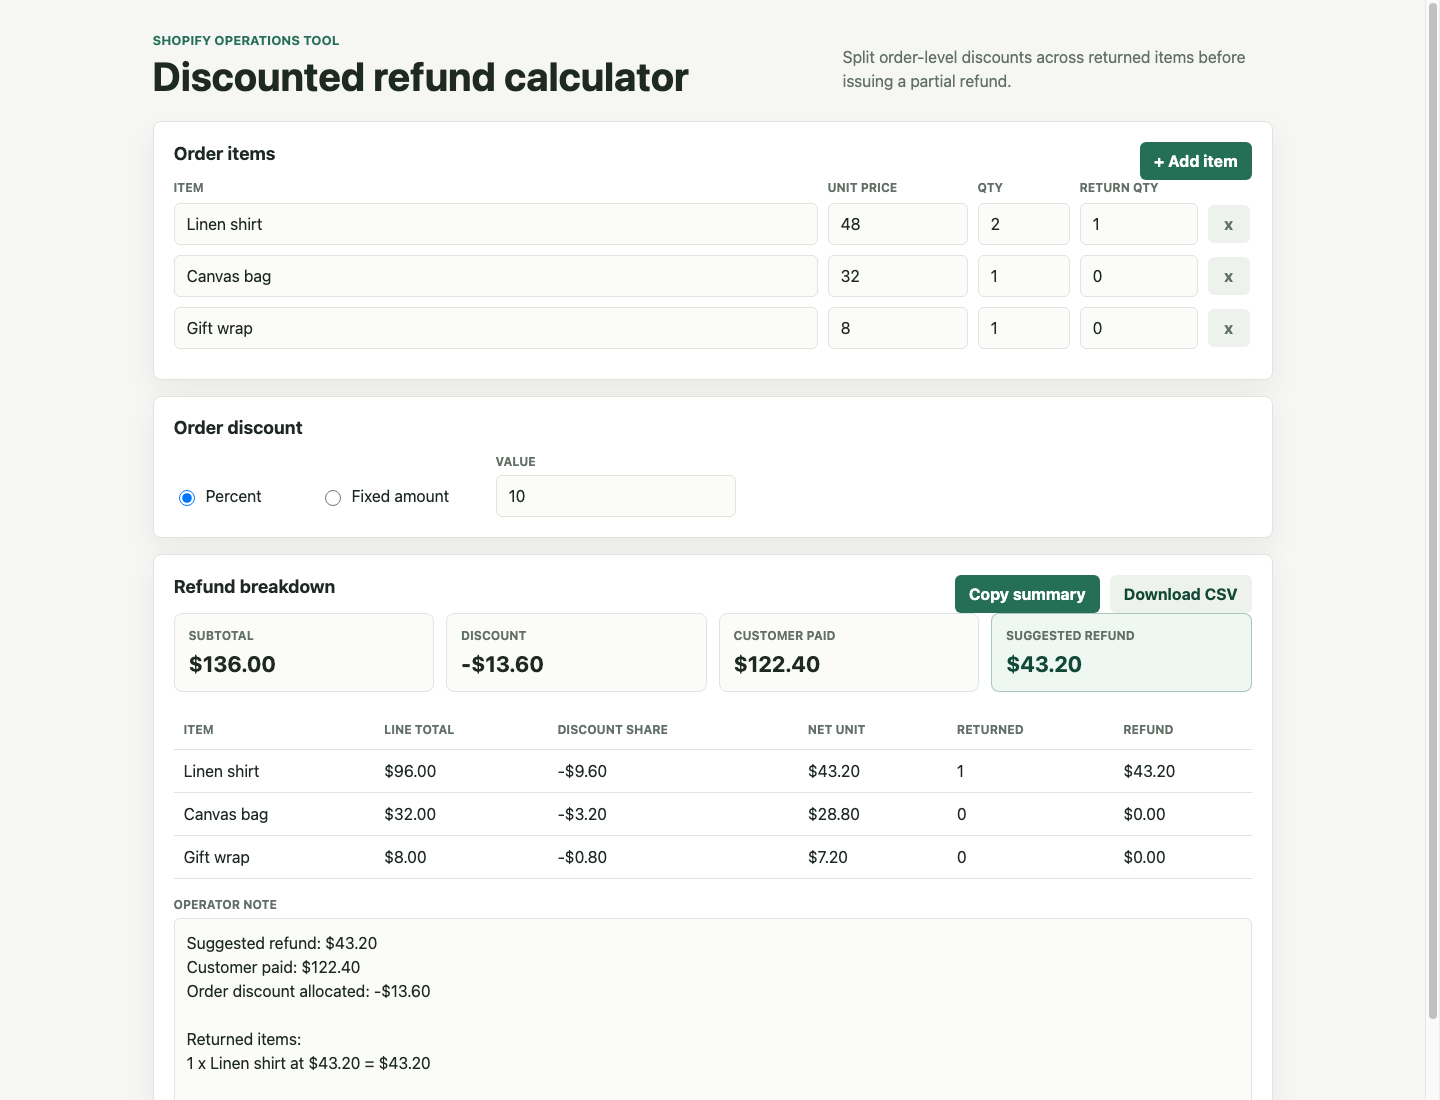
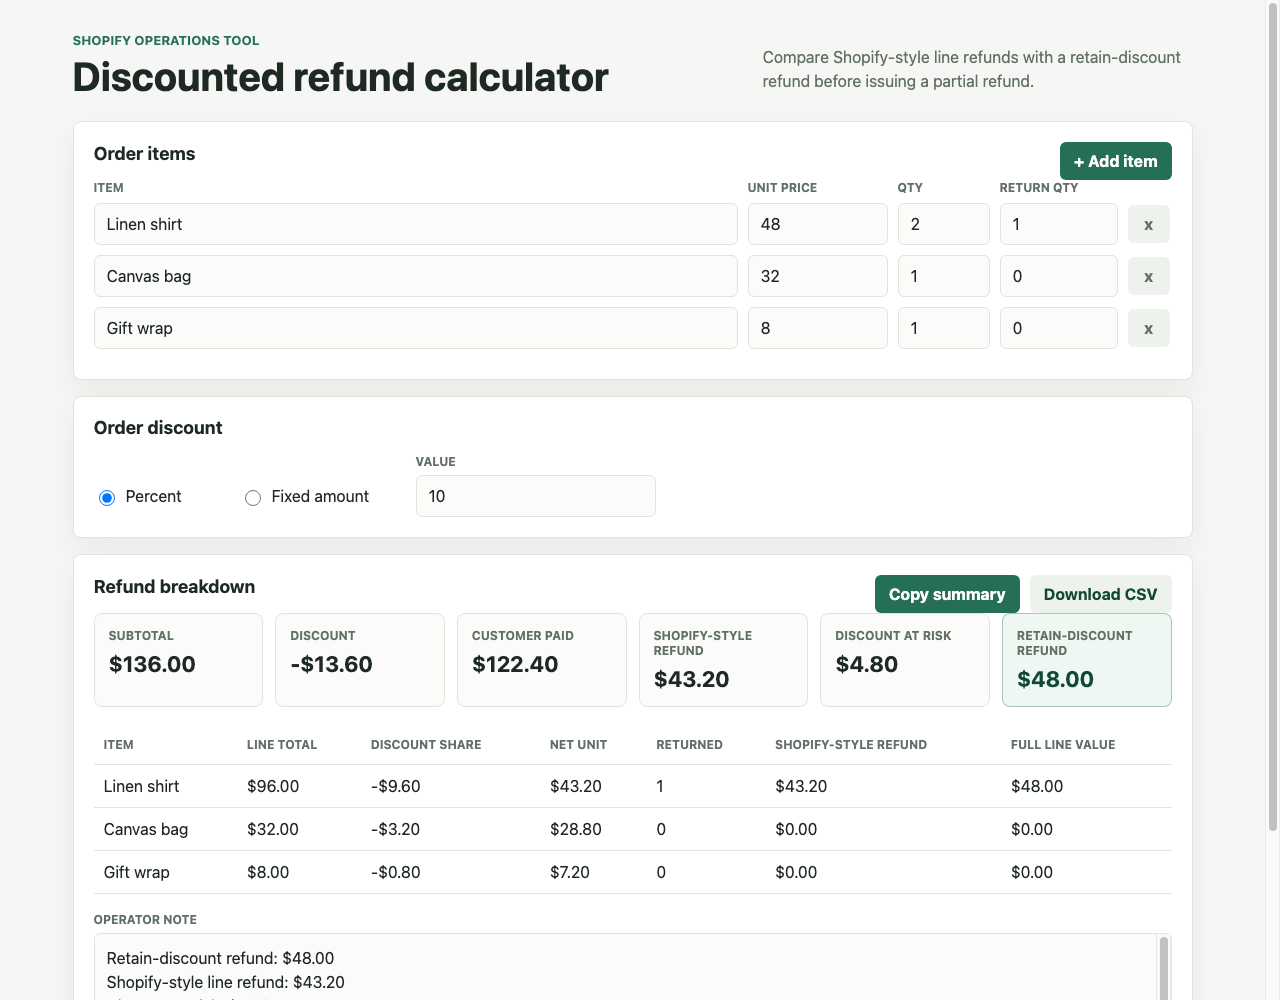
Show retain-discount refund comparison

diff --git a/app.js b/app.js
@@ -104,6 +104,7 @@ function calculateRefund({
     const refundCents = Math.round(
       (netLineCents / item.quantity) * returnedQuantity
     );
+    const returnedSubtotalCents = item.priceCents * returnedQuantity;
 
     return {
       ...item,
@@ -112,17 +113,41 @@ function calculateRefund({
       netLineCents,
       perUnitNetCents,
       returnedQuantity,
+      returnedSubtotalCents,
       refundCents
     };
   });
 
-  const refundCents = rows.reduce((sum, row) => sum + row.refundCents, 0);
+  const shopifyStyleRefundCents = rows.reduce(
+    (sum, row) => sum + row.refundCents,
+    0
+  );
+  const returnedSubtotalCents = rows.reduce(
+    (sum, row) => sum + row.returnedSubtotalCents,
+    0
+  );
+  const retainedSubtotalCents = subtotalCents - returnedSubtotalCents;
+  const targetCustomerKeepsPayingCents = Math.max(
+    retainedSubtotalCents - discountCents,
+    0
+  );
+  const retainedDiscountRefundCents = clamp(
+    (subtotalCents - discountCents) - targetCustomerKeepsPayingCents,
+    0,
+    subtotalCents - discountCents
+  );
+  const discountAtRiskCents =
+    retainedDiscountRefundCents - shopifyStyleRefundCents;
 
   return {
     subtotalCents,
     discountCents,
     paidCents: subtotalCents - discountCents,
-    refundCents,
+    refundCents: retainedDiscountRefundCents,
+    shopifyStyleRefundCents,
+    retainedDiscountRefundCents,
+    returnedSubtotalCents,
+    discountAtRiskCents,
     rows
   };
 }
@@ -130,7 +155,9 @@ function calculateRefund({
 function formatResultSummary(result) {
   const returnedRows = result.rows.filter((row) => row.returnedQuantity > 0);
   const lines = [
-    `Suggested refund: ${money(result.refundCents)}`,
+    `Retain-discount refund: ${money(result.retainedDiscountRefundCents)}`,
+    `Shopify-style line refund: ${money(result.shopifyStyleRefundCents)}`,
+    `Discount at risk: ${money(result.discountAtRiskCents)}`,
     `Customer paid: ${money(result.paidCents)}`,
     `Order discount allocated: -${money(result.discountCents)}`,
     "",
@@ -142,7 +169,7 @@ function formatResultSummary(result) {
   } else {
     returnedRows.forEach((row) => {
       lines.push(
-        `${row.returnedQuantity} x ${row.name} at ${money(row.perUnitNetCents)} = ${money(row.refundCents)}`
+        `${row.returnedQuantity} x ${row.name}: ${money(row.returnedSubtotalCents)} full line value, ${money(row.refundCents)} Shopify-style line refund`
       );
     });
   }
@@ -157,7 +184,8 @@ function resultToCsv(result) {
     "Discount share",
     "Net unit",
     "Returned quantity",
-    "Refund"
+    "Shopify-style refund",
+    "Full line value"
   ];
   const rows = result.rows.map((row) => [
     row.name,
@@ -165,7 +193,8 @@ function resultToCsv(result) {
     `-${money(row.discountShareCents)}`,
     money(row.perUnitNetCents),
     row.returnedQuantity,
-    money(row.refundCents)
+    money(row.refundCents),
+    money(row.returnedSubtotalCents)
   ]);
 
   return [header, ...rows]
@@ -199,7 +228,15 @@ function render() {
   document.querySelector("#subtotal").textContent = money(result.subtotalCents);
   document.querySelector("#discount").textContent = `-${money(result.discountCents)}`;
   document.querySelector("#paid").textContent = money(result.paidCents);
-  document.querySelector("#refund").textContent = money(result.refundCents);
+  document.querySelector("#shopifyRefund").textContent = money(
+    result.shopifyStyleRefundCents
+  );
+  document.querySelector("#discountAtRisk").textContent = money(
+    result.discountAtRiskCents
+  );
+  document.querySelector("#refund").textContent = money(
+    result.retainedDiscountRefundCents
+  );
   document.querySelector("#copyText").value = formatResultSummary(result);
 
   document.querySelector("#breakdown").innerHTML = result.rows
@@ -212,6 +249,7 @@ function render() {
           <td>${money(row.perUnitNetCents)}</td>
           <td>${row.returnedQuantity}</td>
           <td>${money(row.refundCents)}</td>
+          <td>${money(row.returnedSubtotalCents)}</td>
         </tr>
       `
     )

diff --git a/index.html b/index.html
@@ -13,12 +13,13 @@
           <p class="eyebrow">Shopify refund math</p>
           <h1>Calculate partial refunds on discounted orders</h1>
           <p>
-            A quick calculator for merchants who need to split an order discount
-            across returned items before issuing a manual refund.
+            A quick calculator for merchants who need to compare Shopify's
+            discounted line refund with a refund that preserves the original
+            order-level discount on kept items.
           </p>
           <div class="hero-actions">
-            <a class="button-link" href="calculator.html">Try calculator</a>
-            <a class="text-link" href="calculator.html">Try example</a>
+            <a class="button-link" href="index.html">Try calculator</a>
+            <a class="text-link" href="validation-research.md">See validation notes</a>
           </div>
         </div>
         <img
@@ -33,15 +34,16 @@
           <h2>Built for the awkward refund cases</h2>
           <p>
             Enter items, quantities, order-level discounts, and returned
-            quantities. The calculator gives a suggested refund, line-level
-            breakdown, copyable operator note, and CSV export.
+            quantities. The calculator shows the Shopify-style refund,
+            retain-discount refund, discount at risk, copyable operator note,
+            and CSV export.
           </p>
         </div>
         <div class="feature-list">
-          <span>Order discount allocation</span>
+          <span>Discount-at-risk check</span>
+          <span>Retain-discount refund</span>
           <span>Returned quantity caps</span>
           <span>CSV export</span>
-          <span>Copyable support note</span>
         </div>
       </section>
     </main>

diff --git a/calculator.html b/calculator.html
@@ -15,7 +15,7 @@
             <h1>Discounted refund calculator</h1>
           </div>
           <p class="summary">
-            Split order-level discounts across returned items before issuing a partial refund.
+            Compare Shopify-style line refunds with a retain-discount refund before issuing a partial refund.
           </p>
         </header>
 
@@ -73,8 +73,16 @@
               <span>Customer paid</span>
               <strong id="paid">$0.00</strong>
             </div>
+            <div>
+              <span>Shopify-style refund</span>
+              <strong id="shopifyRefund">$0.00</strong>
+            </div>
+            <div>
+              <span>Discount at risk</span>
+              <strong id="discountAtRisk">$0.00</strong>
+            </div>
             <div class="refund-total">
-              <span>Suggested refund</span>
+              <span>Retain-discount refund</span>
               <strong id="refund">$0.00</strong>
             </div>
           </div>
@@ -87,7 +95,8 @@
                   <th>Discount share</th>
                   <th>Net unit</th>
                   <th>Returned</th>
-                  <th>Refund</th>
+                  <th>Shopify-style refund</th>
+                  <th>Full line value</th>
                 </tr>
               </thead>
               <tbody id="breakdown"></tbody>

diff --git a/styles.css b/styles.css
@@ -314,7 +314,7 @@ label span {
 
 .result-grid {
   display: grid;
-  grid-template-columns: repeat(4, minmax(0, 1fr));
+  grid-template-columns: repeat(6, minmax(0, 1fr));
   gap: 12px;
   margin-bottom: 18px;
 }
@@ -355,7 +355,7 @@ label span {
 
 table {
   width: 100%;
-  min-width: 720px;
+  min-width: 860px;
   border-collapse: collapse;
 }
 
@@ -394,9 +394,12 @@ th {
   }
 
   .item-grid,
-  .discount-row,
-  .result-grid {
+  .discount-row {
     grid-template-columns: 1fr;
+  }
+
+  .result-grid {
+    grid-template-columns: repeat(2, minmax(0, 1fr));
   }
 
   .labels {